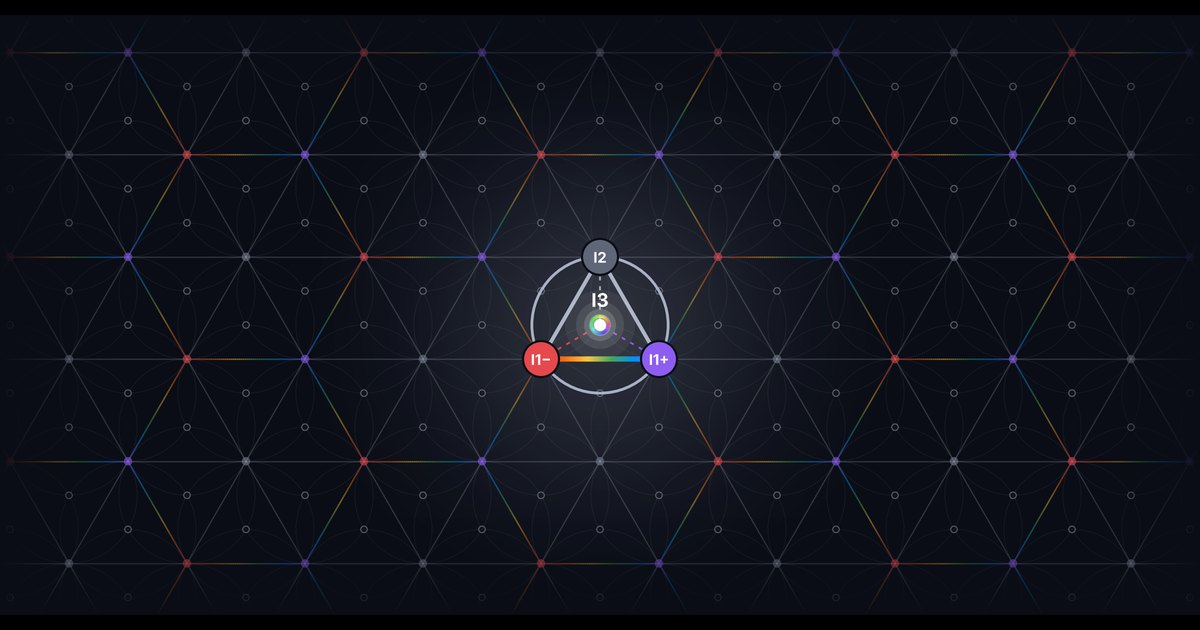
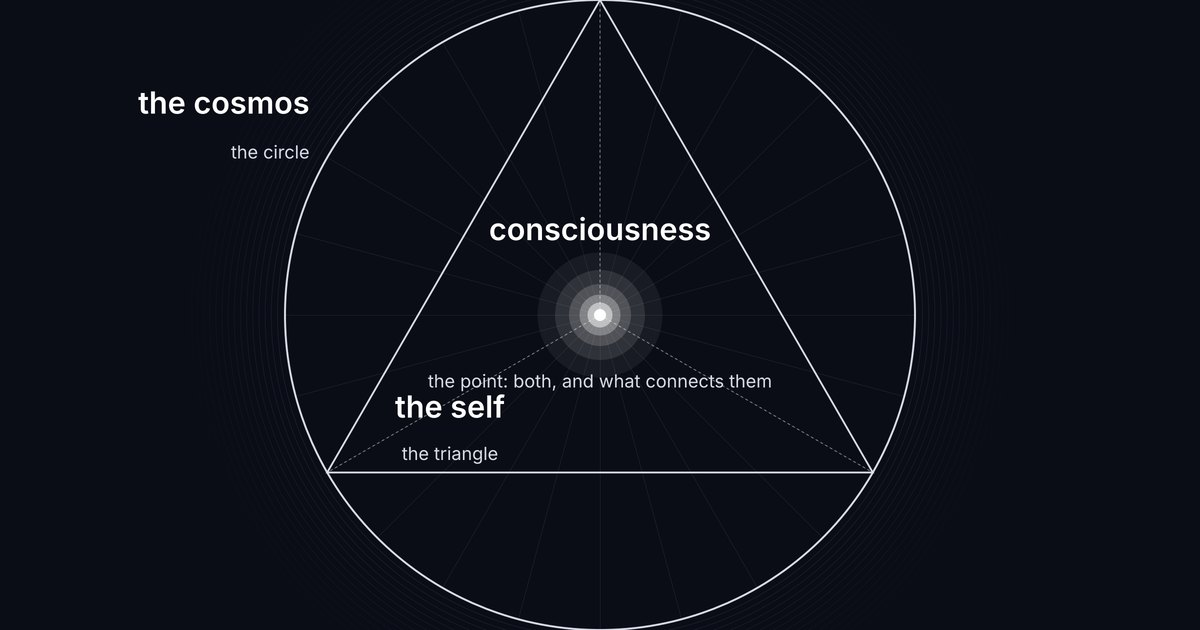
Site: the figure's first reading (the self, the cosmos, consciousness) replaces the lattice in the hero and the share image
Claude-Session: https://claude.ai/code/session_01P28EcMgMgxzGoCsmxLXbUm

diff --git a/index.html b/index.html
@@ -22,7 +22,7 @@
 <meta property="og:image:type" content="image/jpeg">
 <meta property="og:image:width" content="1200">
 <meta property="og:image:height" content="630">
-<meta property="og:image:alt" content="A pale lattice of triangles on a dark ground with one triangle in full colour at the centre and a point of light at its middle.">
+<meta property="og:image:alt" content="A triangle in a circle on a dark ground with a point of light at the centre, labelled the self, the cosmos and consciousness.">
 <meta name="twitter:card" content="summary_large_image">
 <meta name="twitter:title" content="The Peace Papers">
 <meta name="twitter:description" content="Peace is in the now of π. Six papers on one framework.">
@@ -224,9 +224,9 @@ The Peace Papers</a>
 <section aria-label="The all and the many" style="max-width: 1240px; margin: 0 auto; padding: 8px 20px 0">
 <figure style="margin: 0">
 <a href="centre.html" aria-label="Enter the centre: open the interactive figure" style="display: block; border-radius: 20px; overflow: hidden; border: 1px solid rgba(255,255,255,0.08)">
-<img src="assets/hero-lattice.png" alt="A pale lattice of triangles on a dark ground, every corner a small coloured point and every triangle with a small open circle at its centre. At the middle, one triangle is drawn in full colour inside a circle through its corners: I2 in grey at the top, I1 minus in red at the bottom left and I1 plus in violet at the bottom right, the base a spectrum from red to violet, and I3 a lit point of light at the centre." style="display: block; width: 100%; height: auto">
+<img src="assets/hero-first-reading.png" alt="A triangle inside a circle on a dark ground, with a point of white light at the centre, faint rays from the point to the rim and dashed lines from the point to the three corners. Three labels: the cosmos, the circle; the self, the triangle; consciousness, the point, both and what connects them." style="display: block; width: 100%; height: auto">
 </a>
-<figcaption style="margin: 14px 4px 0; max-width: 760px; font-size: 13px; line-height: 1.6; color: #8A90A6">The all and the many. The paler lattice is the one consciousness; in the triangle of Figure 1 it comes to a point, I3 lit at the centre, and every other triangle repeats the picture. After Supplementary Figure S5 (Interpretive). Tap the drawing to fall into the centre.</figcaption>
+<figcaption style="margin: 14px 4px 0; max-width: 760px; font-size: 13px; line-height: 1.6; color: #8A90A6">The figure's first reading. The self, the triangle; the cosmos, the circle; consciousness, the point, which is both and connects them. Drawn from introspection before any tradition was read; paper I reads it in full (Interpretive). Tap the drawing to fall into the centre, where every triangle repeats the picture.</figcaption>
 </figure>
 </section>
 
